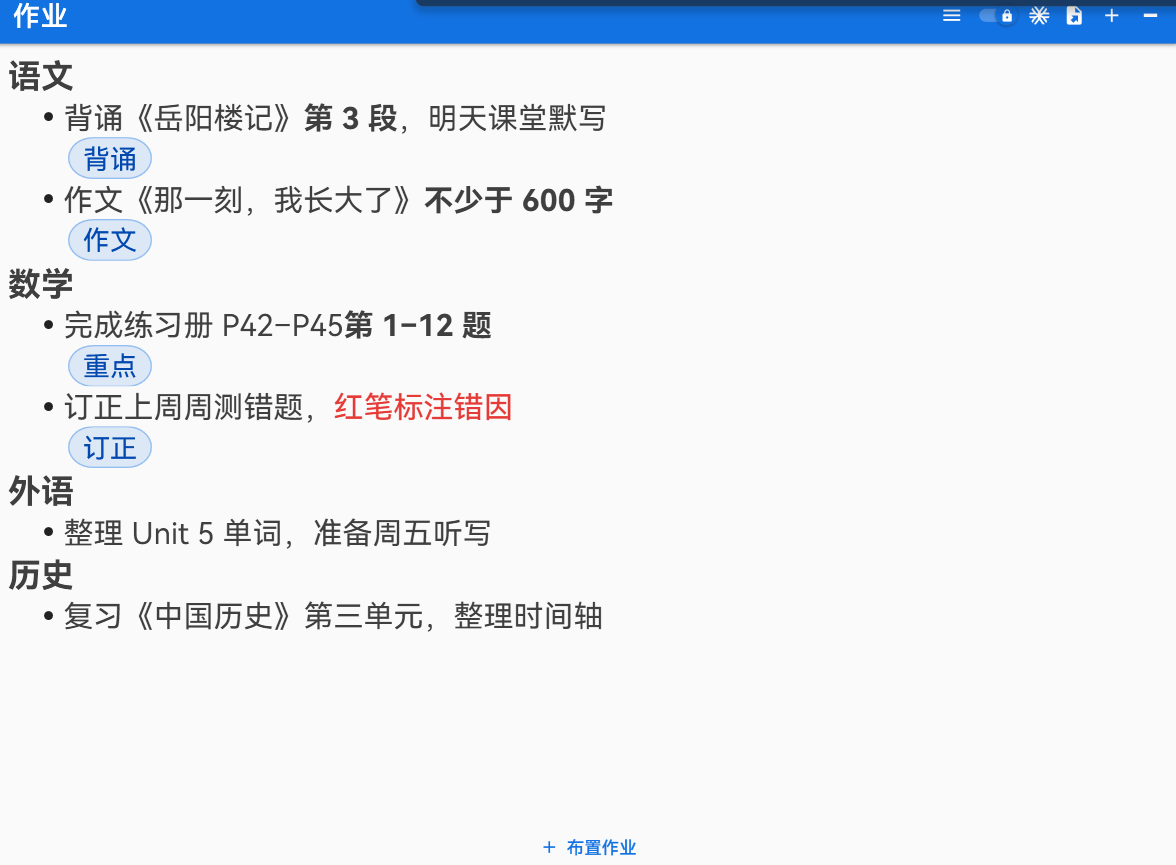
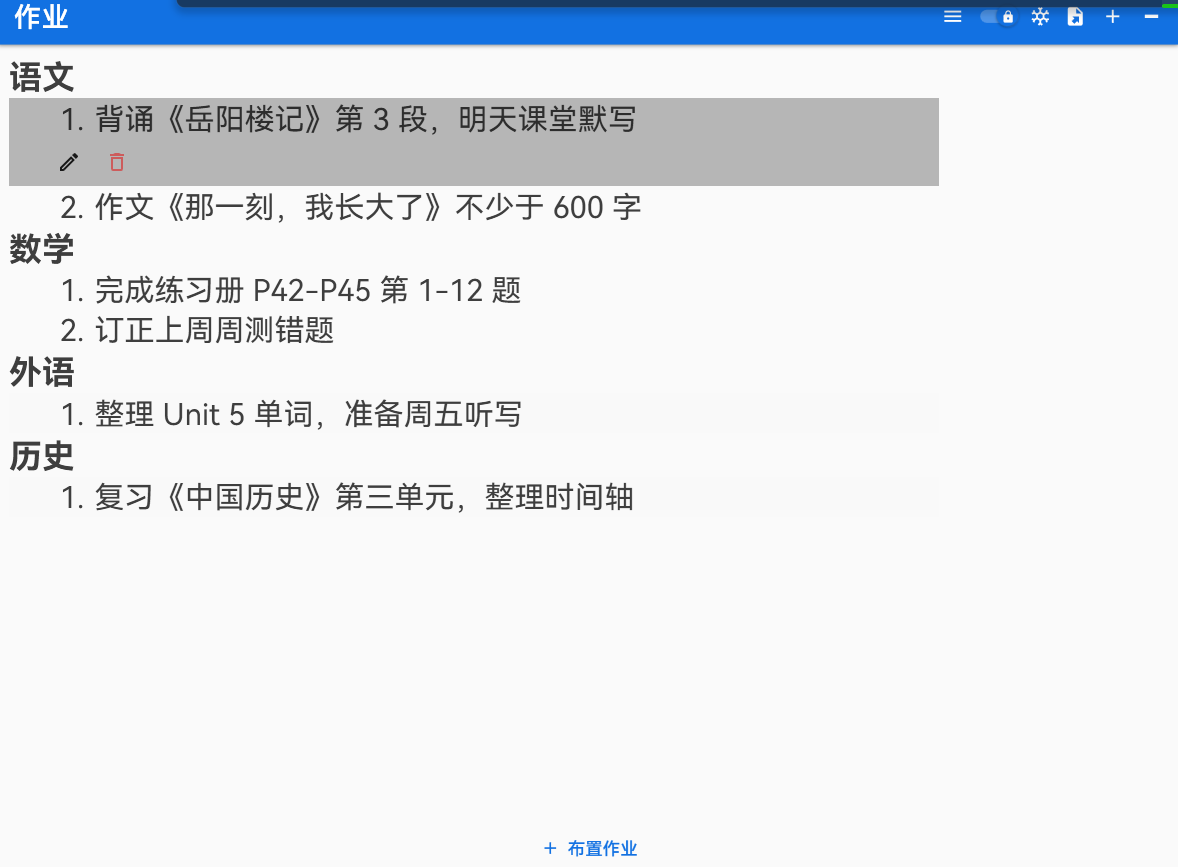
feat: 作业序号改为数字；点一下就能直接编辑（v0.3.6）
- 列表前面的圆点改成数字序号（每个科目从 1 开始，按分组内位置计算）
- 选中作业后内容直接可编辑，不用再点“编辑”按钮；点击文字即可落光标输入
  - 只读状态由代码控制：选中且未冻结才可写，冻结时仍只读
- 编辑工具栏仍需点“编辑”打开（格式、标签、时间等）
- README 宣传图更新为带数字序号的新界面

diff --git a/StickyHomeworks/Controls/HomeworkControl.xaml b/StickyHomeworks/Controls/HomeworkControl.xaml
@@ -51,9 +51,15 @@
     </UserControl.Resources>
     <Grid DataContext="{Binding RelativeSource={RelativeSource FindAncestor, AncestorType=local:HomeworkControl}}">
         <DockPanel Margin="0 0">
-            <Ellipse Width="6" Height="6" Fill="{DynamicResource MaterialDesignBody}"
-                     VerticalAlignment="Top"
-                     Margin="0 10 6 0"/>
+            <!-- 序号（原来是圆点），由代码按分组内的位置计算 -->
+            <TextBlock Text="{Binding Number, StringFormat={}{0}.}"
+                       VerticalAlignment="Top"
+                       TextAlignment="Right"
+                       MinWidth="26"
+                       FontSize="20"
+                       FontWeight="Regular"
+                       Foreground="{DynamicResource MaterialDesignBody}"
+                       Margin="0 0 6 0"/>
             <WrapPanel>
                 <emoji:RichTextBox VerticalAlignment="Top"
                                    Padding="0"
@@ -68,8 +74,8 @@
                                    PreviewMouseLeftButtonDown="RichTextBox_OnPreviewMouseLeftButtonDown"
                                    Hyperlink.RequestNavigate="RichTextBox_OnRequestNavigate"
                                    IsDocumentEnabled="True"
-                                  IsReadOnly="{Binding IsEditing, Converter={StaticResource InvertBooleanConverter}}"
-                                  materialDesign:TextFieldAssist.UnderlineBrush="{x:Null}">
+                                   IsReadOnly="True"
+                                   materialDesign:TextFieldAssist.UnderlineBrush="{x:Null}">
                     <materialDesign:BehaviorsAssist.Behaviors>
                         <materialDesign:BehaviorCollection>
                             <behaviors:RichTextBoxBindingBehavior DocumentXaml="{Binding Homework.Content, UpdateSourceTrigger=PropertyChanged}"/>

diff --git a/StickyHomeworks/Controls/HomeworkControl.xaml.cs b/StickyHomeworks/Controls/HomeworkControl.xaml.cs
@@ -61,9 +61,152 @@ public partial class HomeworkControl : UserControl
         set { SetValue(IsEditingProperty, value); }
     }
 
+    /// <summary>
+    /// 作业在自己的科目分组里的序号（从 1 开始），显示在内容前面。
+    /// </summary>
+    public static readonly DependencyProperty NumberProperty = DependencyProperty.Register(
+        nameof(Number), typeof(int), typeof(HomeworkControl), new PropertyMetadata(0));
+
+    public int Number
+    {
+        get { return (int)GetValue(NumberProperty); }
+        set { SetValue(NumberProperty, value); }
+    }
+
     public HomeworkControl()
     {
         InitializeComponent();
+        Loaded += (_, _) =>
+        {
+            RefreshNumber();
+            UpdateReadOnly();
+            HookFrozenChanged();
+        };
+        LayoutUpdated += (_, _) => RefreshNumber();
+        Unloaded += (_, _) => UnhookFrozenChanged();
+    }
+
+    /// <summary>
+    /// 选中且没冻结时可直接编辑，否则只读。
+    /// </summary>
+    private void UpdateReadOnly()
+    {
+        var frozen = false;
+        try
+        {
+            frozen = AppEx.GetService<StickyHomeworks.Services.SettingsService>().Settings.IsFrozen;
+        }
+        catch (Exception ex)
+        {
+            Debug.WriteLine($"[HomeworkControl] 读取冻结状态失败：{ex.Message}");
+        }
+
+        var readOnly = !(IsSelected && !frozen);
+        if (RichTextBox.IsReadOnly != readOnly)
+        {
+            RichTextBox.IsReadOnly = readOnly;
+        }
+
+#if DEBUG
+        if (Environment.GetEnvironmentVariable("STICKYHOMEWORKS3_SELFTEST") == "1")
+        {
+            try
+            {
+                System.IO.File.AppendAllText(
+                    System.IO.Path.Combine(StickyHomeworks.Services.AppStorage.DataDirectory, "selftest.log"),
+                    $"control selected={IsSelected} frozen={frozen} readOnly={readOnly}{Environment.NewLine}");
+            }
+            catch
+            {
+                // 自测日志失败不影响功能
+            }
+        }
+#endif
+    }
+
+    private StickyHomeworks.Services.SettingsService? _settingsService;
+
+    private void HookFrozenChanged()
+    {
+        if (_settingsService != null)
+        {
+            return;
+        }
+
+        try
+        {
+            _settingsService = AppEx.GetService<StickyHomeworks.Services.SettingsService>();
+            _settingsService.Settings.PropertyChanged += OnSettingsPropertyChanged;
+            UpdateReadOnly();
+        }
+        catch (Exception ex)
+        {
+            Debug.WriteLine($"[HomeworkControl] 监听冻结状态失败：{ex.Message}");
+        }
+    }
+
+    private void UnhookFrozenChanged()
+    {
+        if (_settingsService == null)
+        {
+            return;
+        }
+
+        _settingsService.Settings.PropertyChanged -= OnSettingsPropertyChanged;
+        _settingsService = null;
+    }
+
+    private void OnSettingsPropertyChanged(object? sender, System.ComponentModel.PropertyChangedEventArgs e)
+    {
+        if (e.PropertyName == nameof(StickyHomeworks.Models.Settings.IsFrozen))
+        {
+            UpdateReadOnly();
+        }
+    }
+
+    /// <summary>
+    /// 按所在分组面板里的位置算出序号（每个科目从 1 开始）。
+    /// </summary>
+    private void RefreshNumber()
+    {
+        try
+        {
+            var item = FindAncestor<ListBoxItem>(this);
+            if (item == null)
+            {
+                return;
+            }
+
+            var panel = item.Parent as Panel ?? VisualTreeHelper.GetParent(item) as Panel;
+            if (panel == null)
+            {
+                return;
+            }
+
+            var index = 0;
+            foreach (UIElement child in panel.Children)
+            {
+                if (ReferenceEquals(child, item))
+                {
+                    break;
+                }
+
+                if (child is ListBoxItem)
+                {
+                    index++;
+                }
+            }
+
+            var number = index + 1;
+            if (Number != number)
+            {
+                Number = number;
+            }
+        }
+        catch (Exception ex)
+        {
+            Debug.WriteLine($"[HomeworkControl] 计算序号失败：{ex.Message}");
+        }
     }
 
     private void IsEditingChanged(bool value)
@@ -87,10 +230,9 @@ public partial class HomeworkControl : UserControl
 
     private void IsSelectedChanged(bool value)
     {
-        Debug.WriteLine($"IsSelected changed! {value} {IsEditing}");
+        UpdateReadOnly();
         if (value && IsEditing)
         {
-            Debug.WriteLine("RelatedRichTextBox updated because IsSelected changed");
             EnterEdit();
         }
     }
@@ -104,8 +246,8 @@ public partial class HomeworkControl : UserControl
     }
 
     /// <summary>
-    /// 没选中时点文字先选中整条作业（否则富文本框会吃掉这次点击）；
-    /// 已选中时把点击交给文档处理，这样里面的链接可以点开。
+    /// 点作业内容：选中整条作业，并把这次点击继续交给富文本框，
+    /// 这样不用先点“编辑”就能直接把光标点到文字上开始输入。
     /// </summary>
     private void RichTextBox_OnPreviewMouseLeftButtonDown(object sender, MouseButtonEventArgs e)
     {
@@ -118,7 +260,7 @@ public partial class HomeworkControl : UserControl
         if (item != null)
         {
             item.IsSelected = true;
-            e.Handled = true;
+            // 注意：这里不设置 e.Handled，保留光标定位的能力
         }
     }
 

diff --git a/StickyHomeworks/MainWindow.xaml.cs b/StickyHomeworks/MainWindow.xaml.cs
@@ -284,6 +284,51 @@ public partial class MainWindow : Window
             }
         };
         base.OnContentRendered(e);
+
+#if DEBUG
+        if (Environment.GetEnvironmentVariable("STICKYHOMEWORKS3_SELFTEST") == "1")
+        {
+            Dispatcher.BeginInvoke(new Action(async () =>
+            {
+                await Task.Delay(1200);
+                MainListView.SelectedIndex = 0;
+                await Task.Delay(1500);
+                var lines = new List<string>();
+                foreach (var control in FindVisualChildren<Controls.HomeworkControl>(this))
+                {
+                    var box = control.FindName("RichTextBox") as System.Windows.Controls.RichTextBox;
+                    lines.Add($"selected={control.IsSelected} number={control.Number} readonly={box?.IsReadOnly}");
+                }
+
+                lines.Add($"frozen={SettingsService.Settings.IsFrozen}");
+                File.WriteAllText(Path.Combine(AppStorage.DataDirectory, "selftest.log"),
+                    string.Join(Environment.NewLine, lines));
+            }), DispatcherPriority.Background);
+        }
+#endif
+    }
+
+    private static IEnumerable<T> FindVisualChildren<T>(DependencyObject? root) where T : DependencyObject
+    {
+        if (root == null)
+        {
+            yield break;
+        }
+
+        var count = VisualTreeHelper.GetChildrenCount(root);
+        for (var i = 0; i < count; i++)
+        {
+            var child = VisualTreeHelper.GetChild(root, i);
+            if (child is T match)
+            {
+                yield return match;
+            }
+
+            foreach (var nested in FindVisualChildren<T>(child))
+            {
+                yield return nested;
+            }
+        }
     }
 
     private void OnSubjectChanged(object? sender, EventArgs e)

diff --git a/StickyHomeworks/AssemblyInfo.cs b/StickyHomeworks/AssemblyInfo.cs
@@ -11,8 +11,8 @@ using System.Windows;
                                                 // app, or any theme specific resource dictionaries)
 )]
 
-[assembly: AssemblyVersion("0.3.5.0")]
-[assembly: AssemblyFileVersion("0.3.5.0")]
+[assembly: AssemblyVersion("0.3.6.0")]
+[assembly: AssemblyFileVersion("0.3.6.0")]
 [assembly: AssemblyTitle("StickyHomeworks3")]
 [assembly: AssemblyProduct("StickyHomeworks3")]
 [assembly: AssemblyCompany("20001lvmei")]
